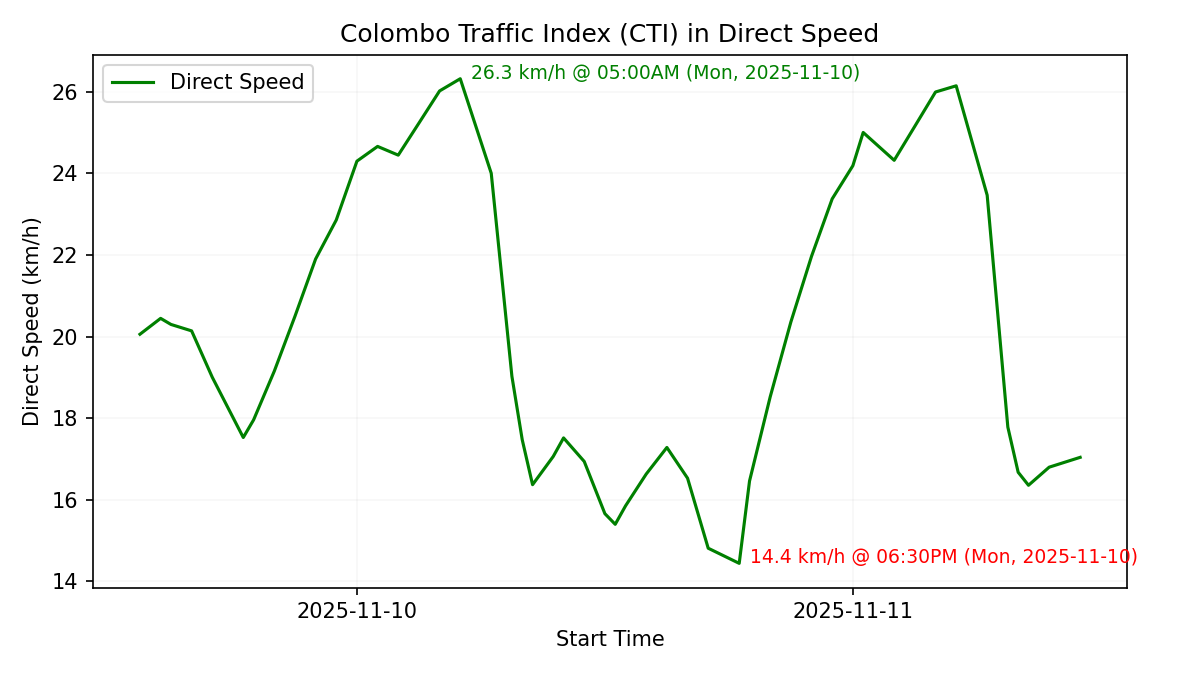
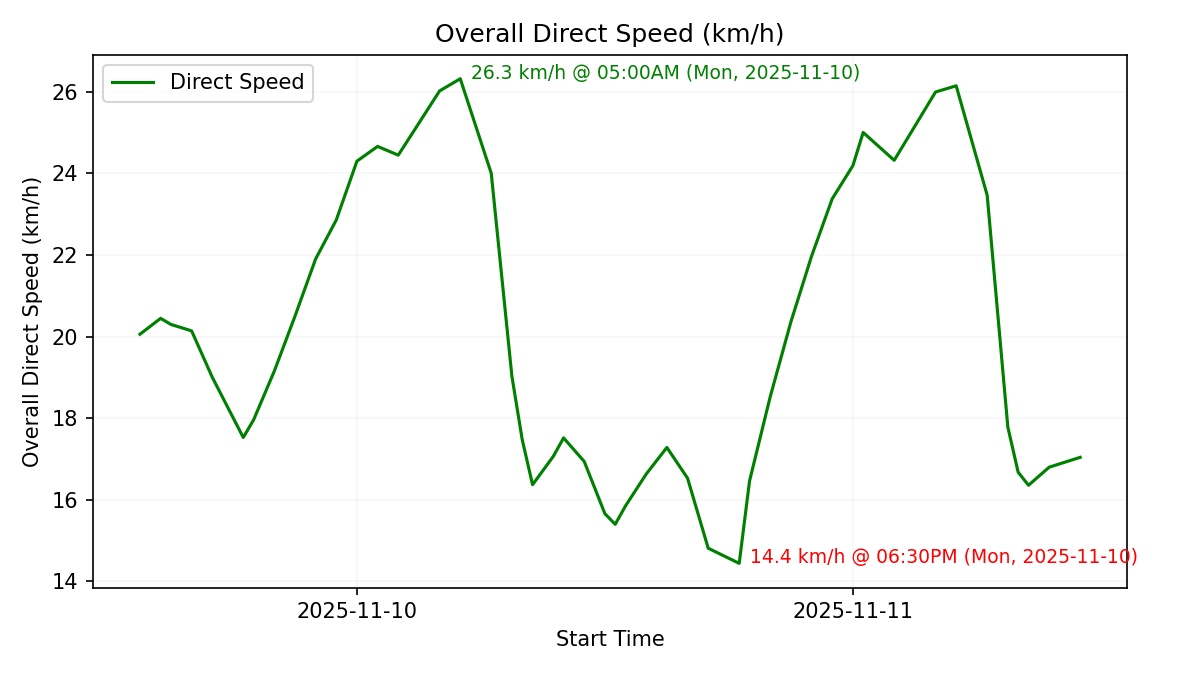
🤖-local [build_readme_only.py] 2025-11-11-1213

Changed region(s): [[0.2775, 0.0311, 0.74, 0.0622], [0.0, 0.28, 0.0308, 0.6844]]

diff --git a/README.md b/README.md
@@ -5,13 +5,13 @@
 ## Definitions, Vision and Big-Picture
 
 See [The Colombo Traffic Index (CTI) - Understanding the Bigger Picture](README.VISION.md)
-## Colombo Traffic Index (CTI, in Direct Speed)
-
-![images/chart_overall_traffic_index.png](images/chart_overall_traffic_index.png)
-
-## Travel Time Index (TTR)
+## Colombo Traffic Index (CTI) as Travel Time Ratio (TTR)
 
 ![images/chart_ttr_traffic_index.png](images/chart_ttr_traffic_index.png)
+
+### Overall Direct Speed (ODS)
+
+![images/chart_overall_traffic_index.png](images/chart_overall_traffic_index.png)
 
 ## Routes
 
